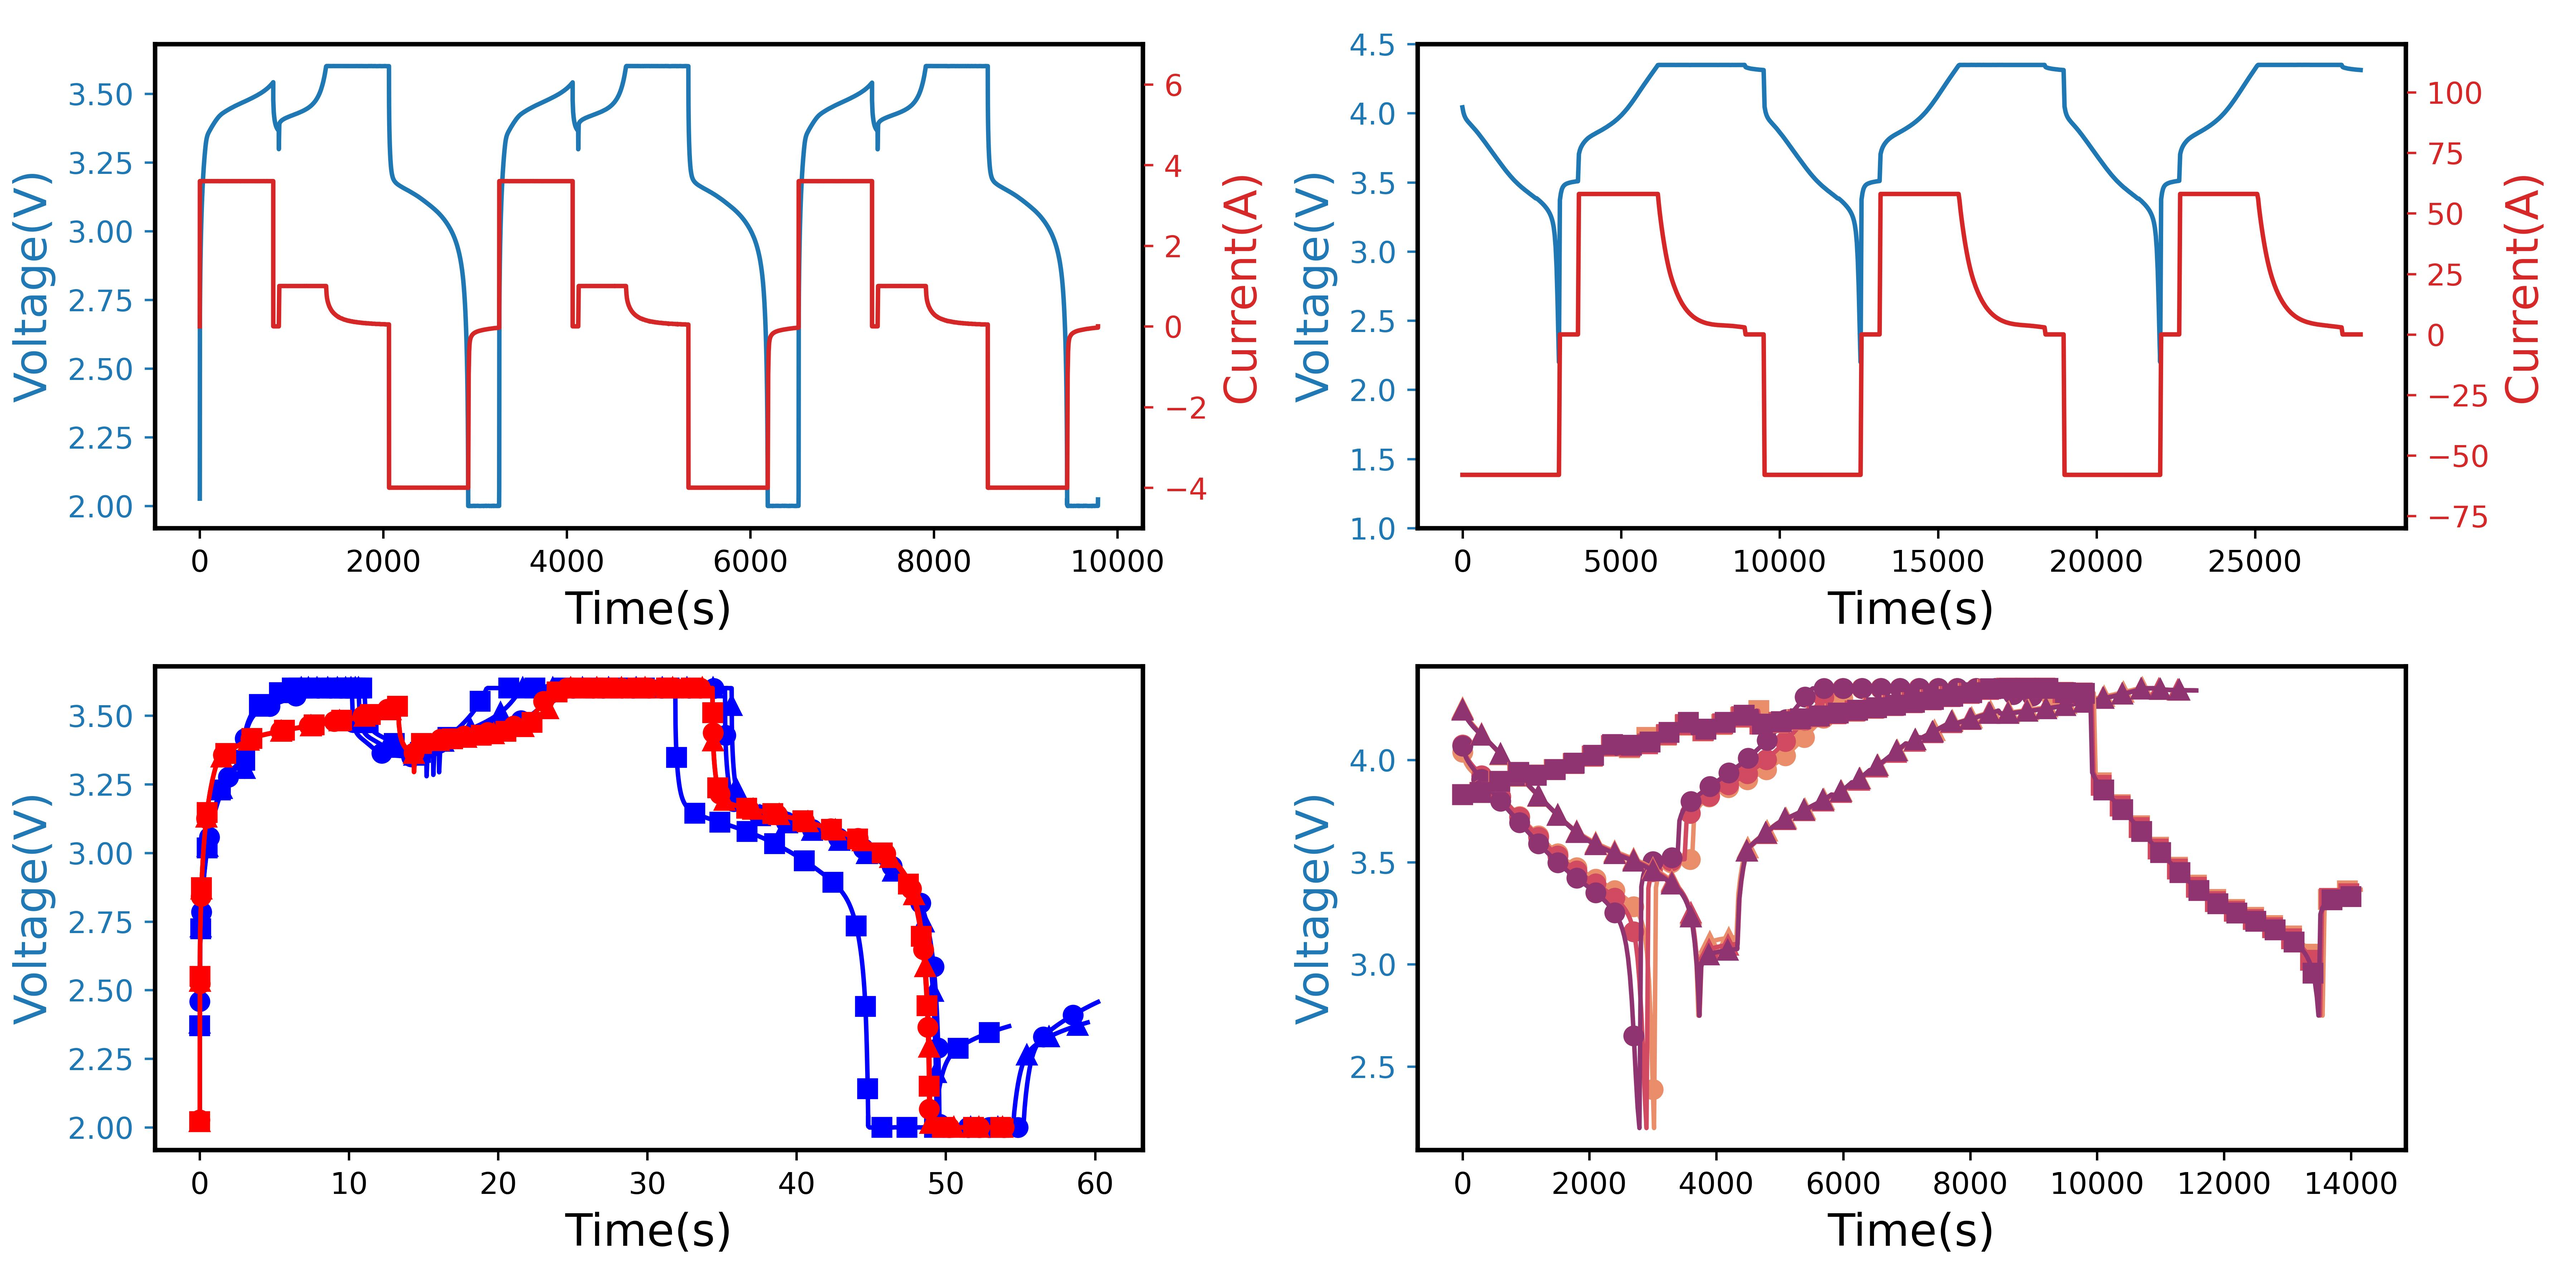
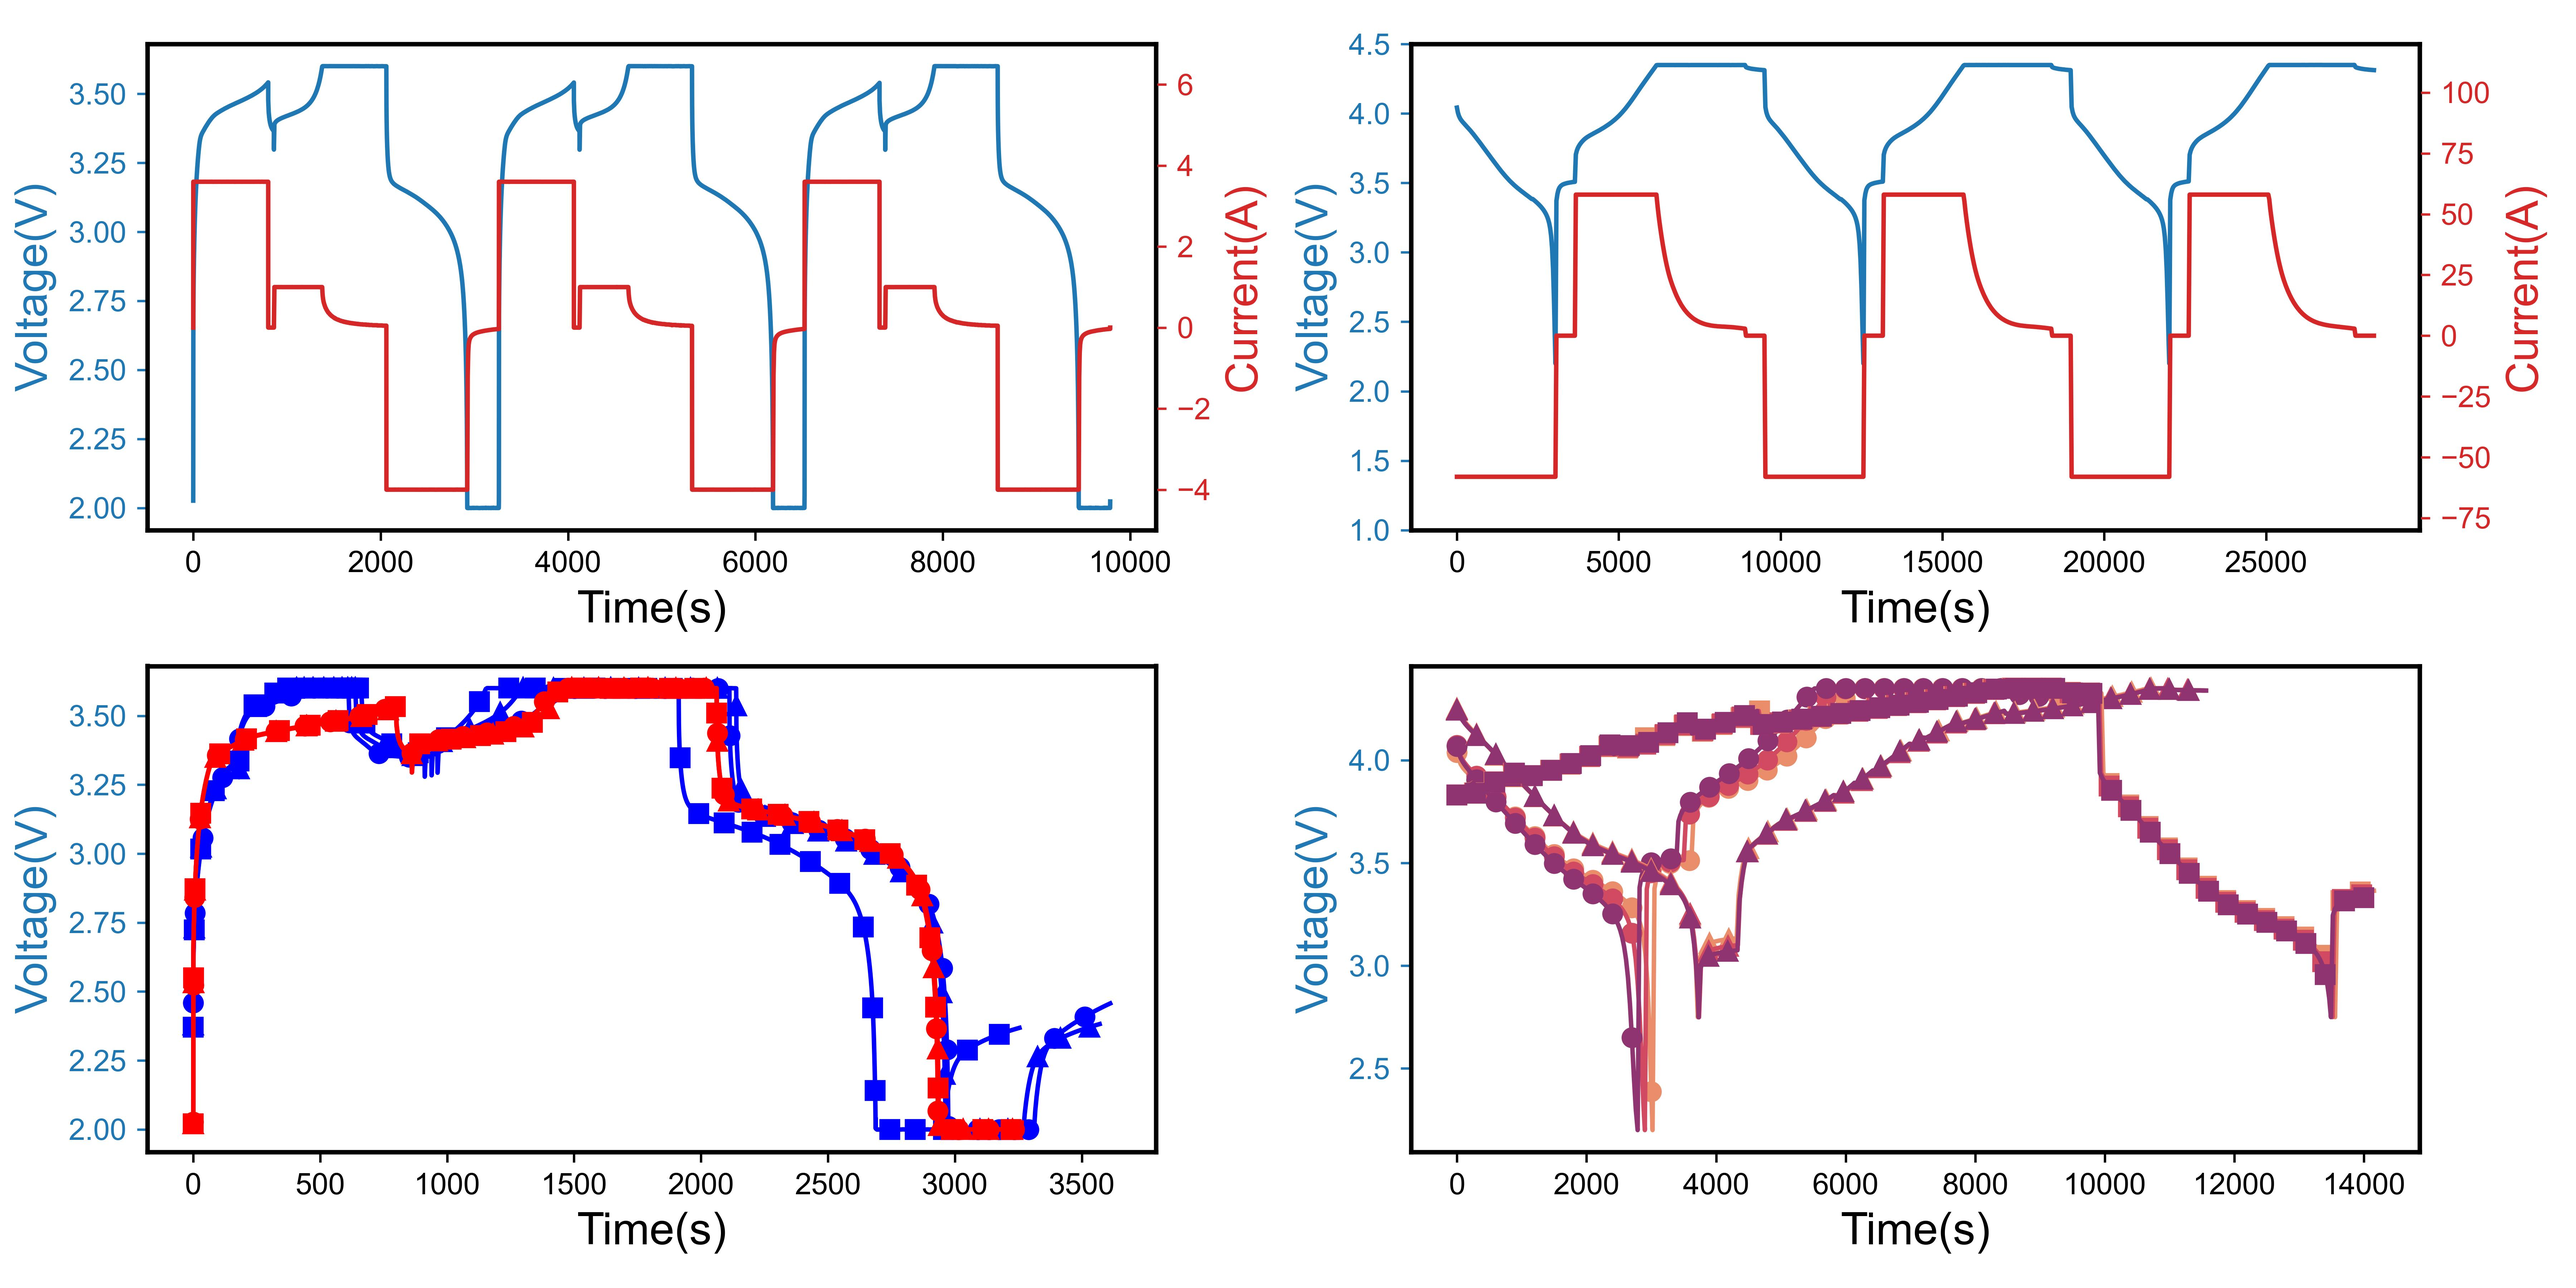
fix time

diff --git a/visualization/zero_fig.py b/visualization/zero_fig.py
@@ -237,16 +237,19 @@ def draw_MATR_sequence(fig):
         cycle_data = cell_data['cycle_data'][0]
         voltage_1 = cycle_data['voltage_in_V']
         time_1 = cycle_data['time_in_s']
+        time_1 = [(i * 60) for i in time_1]
 
         # 50th cycle
         cycle_data = cell_data['cycle_data'][49]
         voltage_50 = cycle_data['voltage_in_V']
         time_50 = cycle_data['time_in_s']
+        time_50 = [(i * 60) for i in time_50]
 
         # 100th cycle
         cycle_data = cell_data['cycle_data'][99]
         voltage_100 = cycle_data['voltage_in_V']
         time_100 = cycle_data['time_in_s']
+        time_100 = [(i * 60) for i in time_100]
 
         ax1 = plt.subplot(2, 2, 3)
         color_palette = sns.color_palette("ch:s=.25,rot=-.25")
